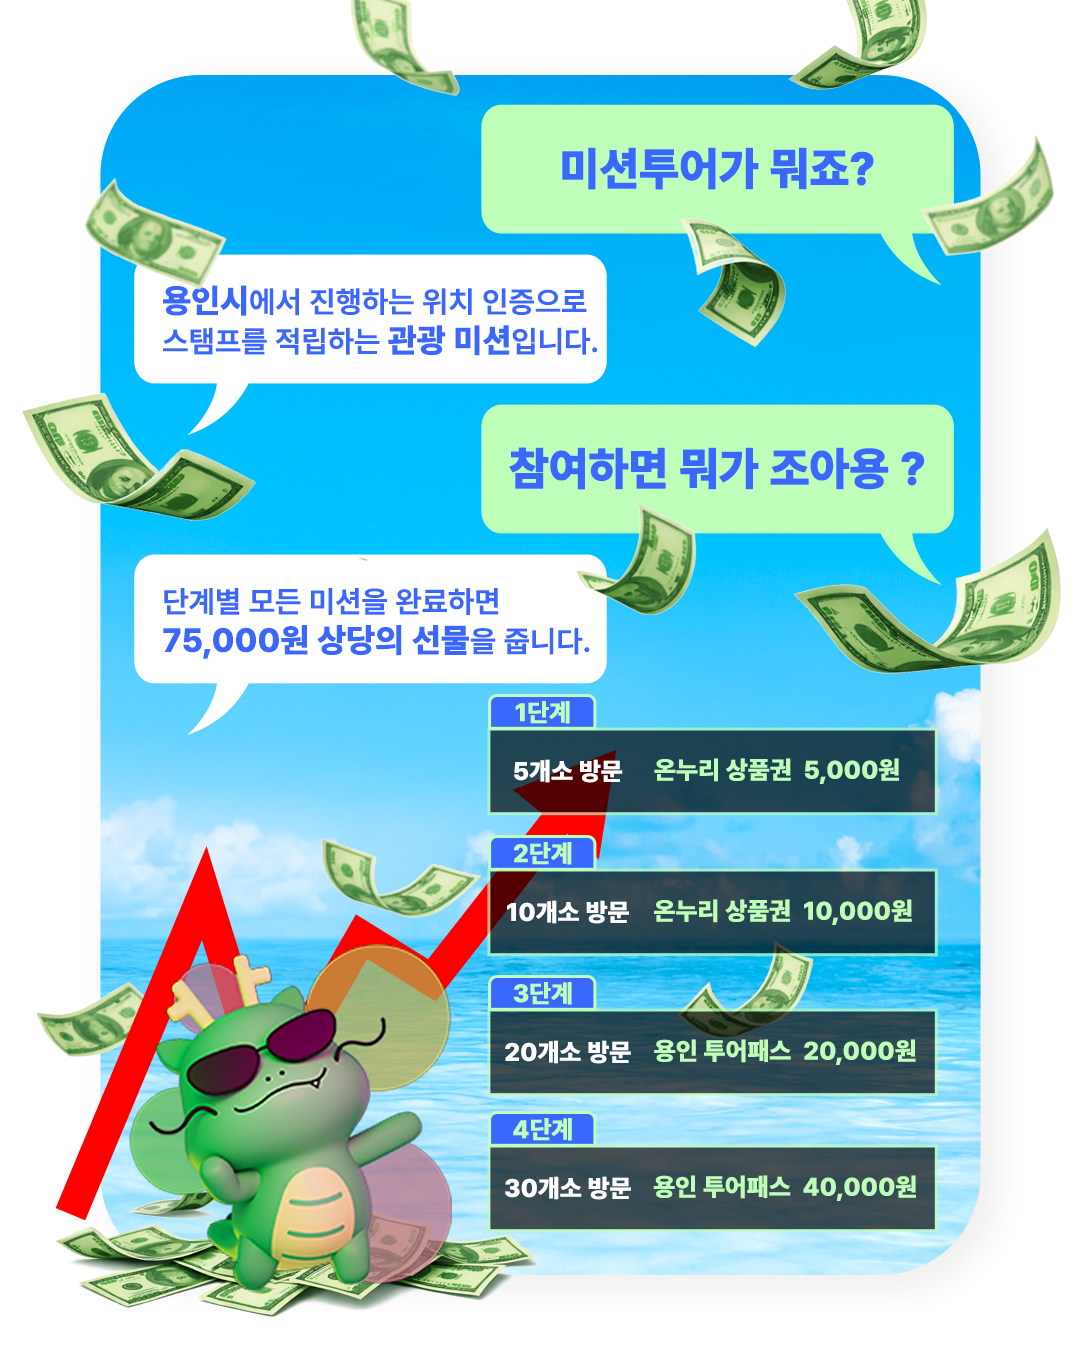
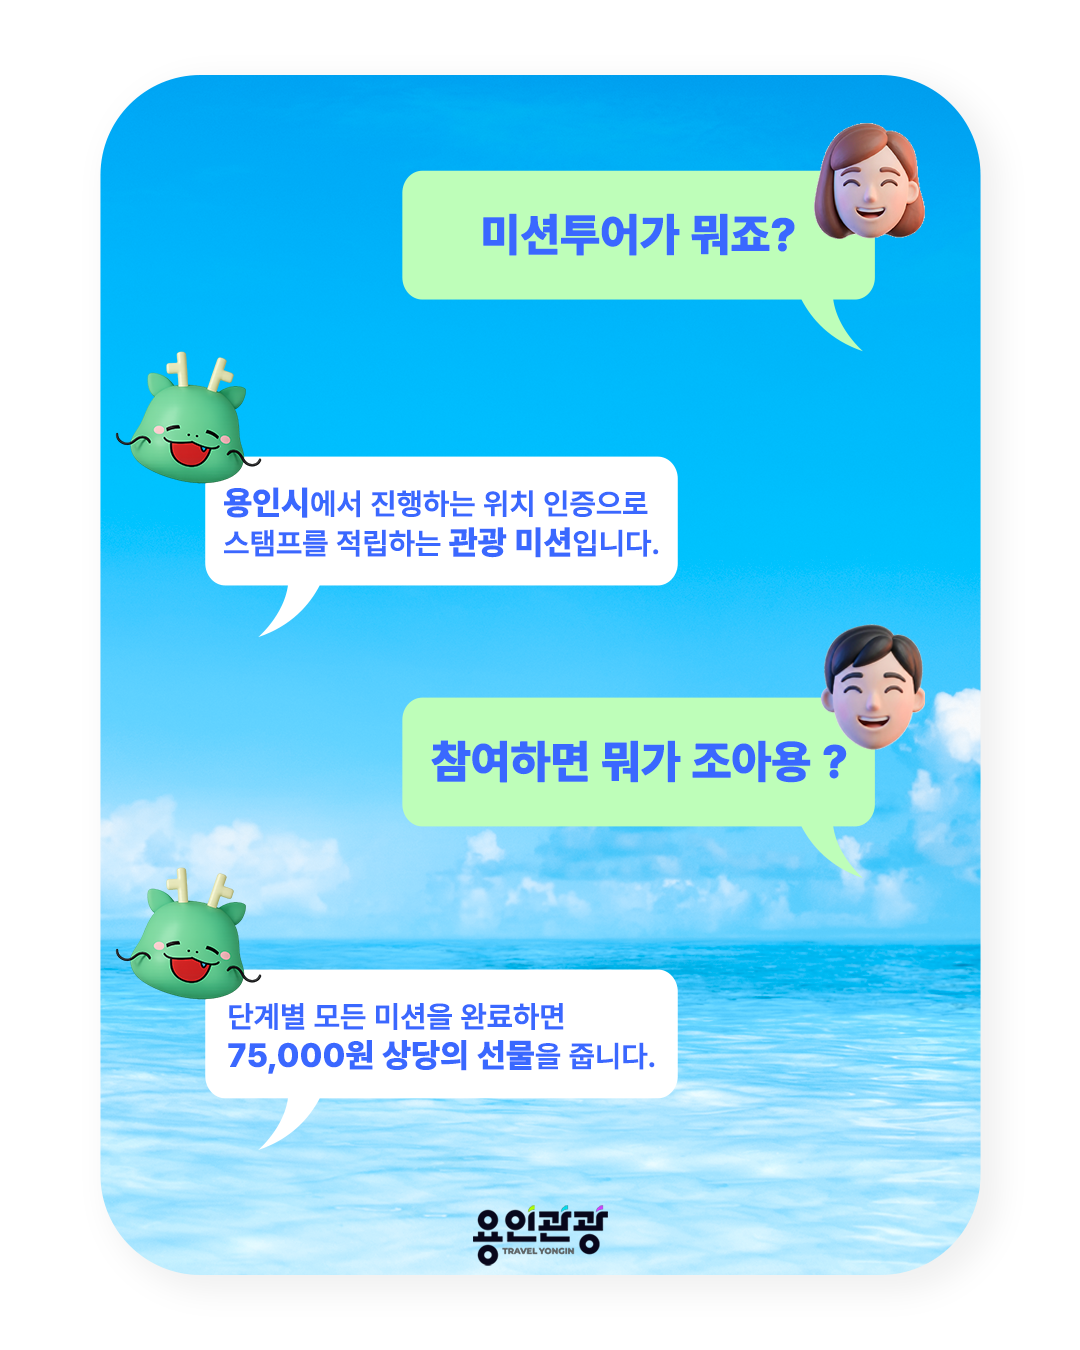
update sources

diff --git a/src/pages/Archive.tsx b/src/pages/Archive.tsx
@@ -44,16 +44,21 @@ function Archive() {
         >
           <div className="item">
             <div className="frame-small frame1">
-              <img
-                className="photo"
-                src={img1}
-                alt="image"
-              />
-              <img
-                className="frame"
-                src={frameRectangle}
-                alt="gold frame image"
-              />
+              <div>
+                <img
+                  className="photo"
+                  src={img1}
+                  alt="image"
+                />
+                <img
+                  className="frame"
+                  src={frameRectangle}
+                  alt="gold frame image"
+                />
+              </div>
+              <div className='photo-description'>
+장학금 수여 
+              </div>
             </div>
             <div className="frame-small frame2">
               <img

diff --git a/src/pages/Home.tsx b/src/pages/Home.tsx
@@ -20,6 +20,7 @@ import meterWhite from '../assets/images/meter_white.png';
 import cardNews1 from '../assets/images/card_news_01.png'
 import cardNews2 from '../assets/images/card_news_02.png'
 import cardNews3 from '../assets/images/card_news_03.png'
+import cardNews31 from '../assets/images/card_news_0301.png'
 import cardNews4 from '../assets/images/card_news_04.png'
 import cardNews5 from '../assets/images/card_news_05.png'
 import cardNews6 from '../assets/images/card_news_06.png'
@@ -751,6 +752,17 @@ function Home() {
                 className="swiper-cardnews"
               >
                 <img src={cardNews3} alt="card news image 3" />
+              </div>
+              <div className="swiper-description">
+              </div>
+            </div>
+          </SwiperSlide>
+          <SwiperSlide>
+            <div className="swiper-item">
+              <div
+                className="swiper-cardnews"
+              >
+                <img src={cardNews31} alt="card news image 31" />
               </div>
               <div className="swiper-description">
               </div>

diff --git a/src/pages/Archive.css b/src/pages/Archive.css
@@ -43,10 +43,10 @@
     }
 
     .wall {
-      width: 3000px;
+      width: 3300px;
       height: 100%;
-      background: url(../images/wall_mint.png) repeat-x;
-      background-size: contain;
+      background: url(../assets/images/wall_mint.png) repeat-x;
+      background-size: cover;
 
       img> {
         width: 3000px;

diff --git a/src/main.tsx b/src/main.tsx
@@ -14,7 +14,7 @@ import Home from './pages/Home';
 const router = createHashRouter([
   {
     path: '/',
-    element: <App />, // App serves as the root layout
+    element: <App />,
     children: [
       {
         index: true,
@@ -31,5 +31,5 @@ const router = createHashRouter([
 ReactDOM.createRoot(document.getElementById('root') as HTMLElement).render(
   <React.StrictMode>
     <RouterProvider router={router} />
-  </React.StrictMode>,
+  </React.StrictMode>
 );

diff --git a/src/App.css b/src/App.css
@@ -362,6 +362,7 @@ ul {
 
   .brand-identity {
     margin-bottom: 200px;
+    padding-block: 2rem;
   }
 
   .brand-identity.top {

diff --git a/src/App.tsx b/src/App.tsx
@@ -5,6 +5,7 @@ import { NavHashLink } from 'react-router-hash-link';
 
 function App() {
   const cursorRef = useRef<HTMLDivElement>(null);
+  
   useEffect(() => {
     console.log('useEffect running');
     console.log(cursorRef.current);